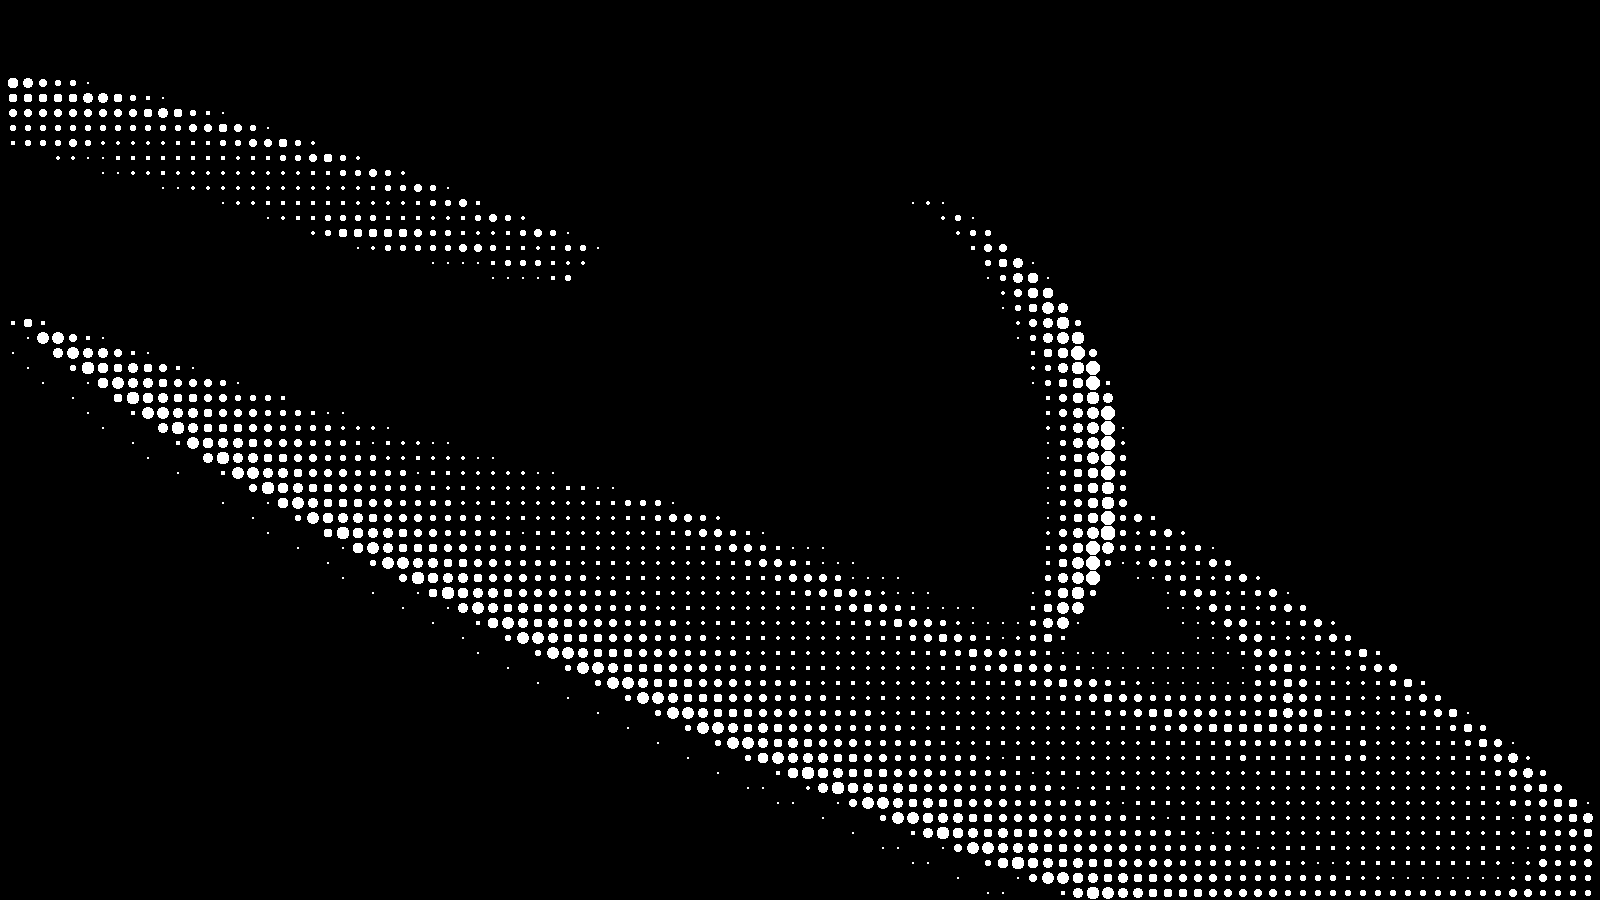
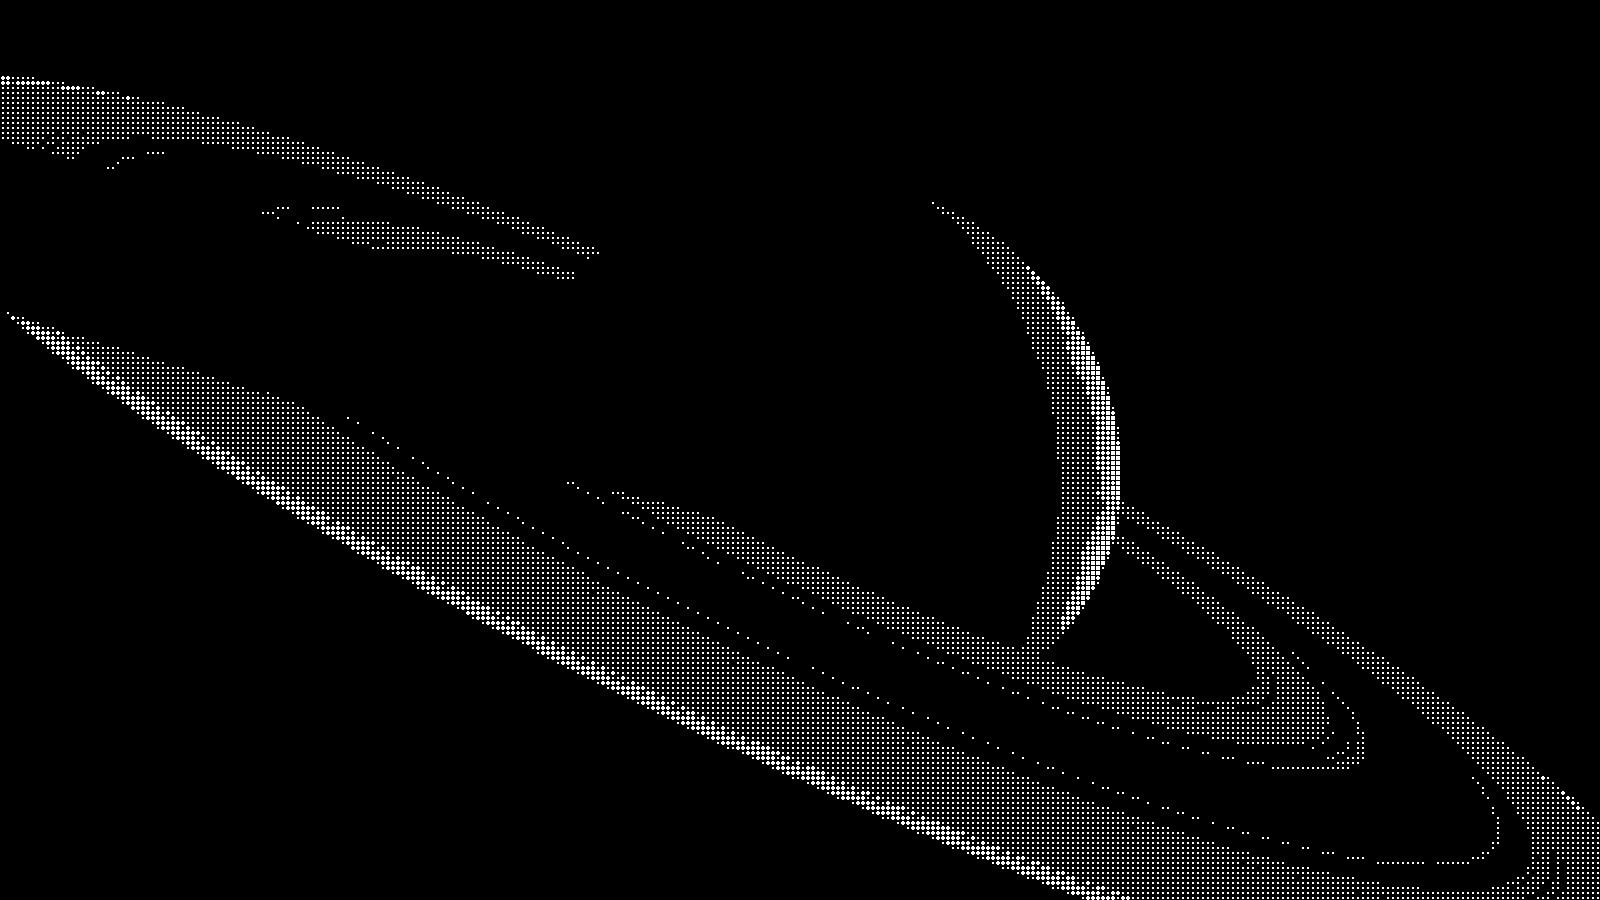
Extra hardware config stuff, new README

diff --git a/README.md b/README.md
@@ -1,3 +1,125 @@
-### My NixOS Config  
-  
-Self-explanatory. I have developed enough familiarity to begin porting over my dotfiles and application configs from my other partition (Opensuse Tumbleweed) into NixOS. Cheers!
+# listport's NixOS Dotfiles
+
+My personal NixOS configuration running Hyprland on a HP ENVY x360 2-in-1 (AMD).
+
+---
+
+## Components
+
+| Component        | Name                        |
+|------------------|-----------------------------|
+| Distro           | NixOS 25.11                 |
+| Shell            | Zsh + oh-my-zsh + p10k      |
+| Display Server   | Wayland                     |
+| WM / Compositor  | Hyprland                    |
+| Bar              | Waybar                      |
+| Notifications    | Mako                        |
+| App Launcher     | Rofi                        |
+| Terminal         | Kitty                       |
+| Editor           | Neovim                      |
+| File Manager     | Thunar                      |
+| Browser          | Brave / Vivaldi             |
+| Screenshots      | Flameshot                   |
+| Wallpaper        | swww                        |
+| Lock Screen      | Hyprlock                    |
+| Idle Daemon      | Hypridle                    |
+| Display Manager  | greetd + tuigreet           |
+| Theme            | PureBlack GTK               |
+| Icons            | Papirus-Dark                |
+| Cursor           | Bibata-Modern-Ice           |
+| Font             | Iosevka Nerd Font           |
+
+---
+
+## Repo Structure
+
+```
+.dotfiles/
+├── flake.nix                   # Flake inputs & outputs (nixpkgs, home-manager, hyprland, nixos-hardware)
+├── system/
+│   ├── configuration.nix       # Core system config (networking, fonts, users, services)
+│   ├── hardware-configuration.nix
+│   └── modules/
+│       ├── programs.nix        # Hyprland enable + xdg portals
+│       ├── packages.nix        # System-level packages
+│       ├── brave.nix           # Brave browser group policies (custom NixOS option)
+│       └── greetd.nix          # Login manager (tuigreet -> Hyprland)
+└── home/
+    ├── default.nix             # Home-manager entry point
+    ├── pkgs/
+    │   └── pureblack-gtk-theme.nix   # Custom GTK theme derivation
+    ├── user/
+    │   ├── programs.nix        # User packages, GTK theme, git, kitty, waybar, flameshot
+    │   ├── shell.nix           # Zsh config, p10k, oh-my-zsh, aliases, zoxide
+    │   ├── config.nix          # Symlinks dotfiles into ~/.config/
+    │   └── p10k.zsh            # Powerlevel10k prompt config
+    └── config/
+        ├── hypr/               # Hyprland, hyprlock, hypridle configs + scripts
+        ├── waybar/             # Bar config + CSS
+        ├── nvim/               # Neovim config (lazy.nvim)
+        ├── rofi/               # App launcher theme
+        ├── mako/               # Notification daemon config
+        ├── fastfetch/          # System fetch config
+        └── wallpapers/         # Wallpaper images
+```
+
+### System vs Home
+
+Configuration is split into two layers that are rebuilt independently:
+
+- **System** (`system/`) — NixOS modules, rebuilt with `rebuild`. Covers hardware, boot, networking, system services, fonts, and programs that need root.
+- **Home** (`home/`) — Home Manager modules, rebuilt with `homeRebuild`. Covers user packages, dotfiles, shell, and desktop environment config.
+
+---
+
+## Keybindings
+
+| Key                          | Action                              |
+|------------------------------|-------------------------------------|
+| `SUPER + Return`             | Open terminal (Kitty)               |
+| `SUPER + SHIFT + Return`     | Floating dropdown terminal          |
+| `SUPER + D`                  | App launcher (Rofi)                 |
+| `SUPER + E`                  | File manager (Thunar)               |
+| `SUPER + B`                  | Open browser                        |
+| `SUPER + Q`                  | Kill active window                  |
+| `SUPER + V`                  | Toggle floating                     |
+| `SUPER + SHIFT + F`          | Fullscreen                          |
+| `SUPER + G`                  | Toggle split (dwindle)              |
+| `SUPER + M`                  | Exit Hyprland                       |
+| `SUPER + Escape`             | Power menu                          |
+| `CTRL + ALT + L`             | Lock screen                         |
+| `SUPER + H/J/K/L`            | Move focus                          |
+| `SUPER + SHIFT + H/J/K/L`    | Move window                         |
+| `SUPER + Y/U/I/O/P`          | Switch to workspace 1–5             |
+| `SUPER + 6/7/8/9/0`          | Switch to workspace 6–10            |
+| `SUPER + SHIFT + Y…0`        | Move window to workspace            |
+| `SUPER + [ / ]`              | Move to previous/next workspace     |
+| `SUPER + = / -`              | Scale display up/down               |
+| `SUPER + SHIFT + S`          | Screenshot (Flameshot)              |
+| `SUPER + CTRL + ALT + B`     | Toggle Waybar                       |
+
+---
+
+## Zsh Aliases
+
+| Alias          | Command                                                                 |
+|----------------|-------------------------------------------------------------------------|
+| `rebuild`      | `sudo nixos-rebuild switch --flake ~/.dotfiles/`                        |
+| `homeRebuild`  | `home-manager switch --flake ~/.dotfiles/ -b backup`                   |
+| `fullRebuild`  | Both of the above in sequence                                           |
+| `fullClean`    | Collect garbage, delete old generations, update boot entries            |
+| `ls`           | `eza --icons=always`                                                    |
+
+---
+
+## Hardware Notes
+
+**Machine:** HP ENVY x360 2-in-1 15-ey0xxx — AMD CPU, NVMe SSD
+
+nixos-hardware modules in use (no model-specific module exists for this laptop):
+
+- `common-cpu-amd` + `common-cpu-amd-pstate` — AMD microcode and P-state driver
+- `common-pc-laptop` — TLP power management
+- `common-pc-laptop-ssd` — periodic fstrim
+
+> **Note:** `common-pc-laptop` sets the CPU governor to `powersave` by default, which causes noticeable slowness. This is overridden in `configuration.nix` with `schedutil`.

diff --git a/notes.md b/notes.md
@@ -1,0 +1,37 @@
+# Dotfiles Notes
+
+## Hardware (nixos-hardware)
+
+**Machine:** HP ENVY x360 2-in-1 15-ey0xxx — AMD CPU, NVMe SSD
+
+No HP ENVY x360 15-ey specific module exists in nixos-hardware, so generic AMD laptop modules are used instead.
+
+**Modules added to `flake.nix`:**
+- `common-cpu-amd` — AMD microcode and kernel params
+- `common-cpu-amd-pstate` — AMD P-state driver for better power/performance scaling
+- `common-pc-laptop` — enables TLP power management
+- `common-pc-laptop-ssd` — enables periodic fstrim for the NVMe drive
+
+**Gotcha:** `common-pc-laptop` sets the CPU governor to `powersave` by default, which throttles
+the CPU hard (~1.7GHz) and causes noticeable slowness everywhere. Overridden in
+`configuration.nix` with:
+```nix
+powerManagement.cpuFreqGovernor = "schedutil";
+```
+`schedutil` is scheduler-aware and energy-efficient but still boosts when there's real CPU load.
+
+---
+
+## Polkit
+
+GUI apps that require privilege escalation (e.g. mounting drives, package managers) need a
+polkit authentication agent running in the user session — otherwise they silently fail.
+
+**Changes made:**
+- `security.polkit.enable = true` in `configuration.nix`
+- `polkit_gnome` added to system packages in `configuration.nix`
+- Agent autostarted in `hyprland.conf`:
+  ```
+  exec-once = /run/current-system/sw/libexec/polkit-gnome-authentication-agent-1
+  ```
+  The path uses NixOS's `/run/current-system/sw/` symlink tree so it survives rebuilds.
